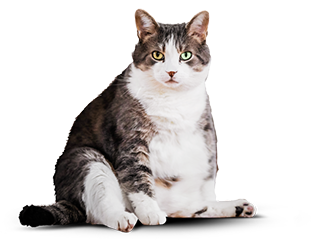
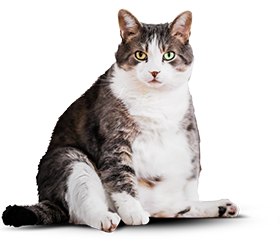
Завершает верстку элементов index mobile

diff --git a/source/index.html b/source/index.html
@@ -122,10 +122,14 @@
         </div>
         <div class="example__half-width">
           <div class="example__slider slider">
-            <img class="slider__image" src="https://via.placeholder.com/150x150" alt="Фото кота 'Было'">
-            <img class="slider__image" src="https://via.placeholder.com/150x150" alt="Фото кота 'Стало'" hidden>
-            <button class="slider__control slider__control--active" type="button">Было</button>
-            <button class="slider__control" type="button">Стало</button>
+            <picture>
+              <img class="slider__image" src="img/before-mobile@1x.png" width="280" height="240" alt="Фото кота 'Было'">
+              <img class="slider__image" src="img/after-mobile@1x.png" width="280" height="248" alt="Фото кота 'Стало'" hidden>
+            </picture>
+            <div class="slider__control-bar">
+              <button class="slider__control slider__control--active" type="button">Было</button>
+              <button class="slider__control" type="button">Стало</button>
+            </div>
           </div>
         </div>
       </div>

diff --git a/source/less/blocks/page-footer.less b/source/less/blocks/page-footer.less
@@ -3,7 +3,7 @@
 }
 
 .page-footer__top {
-  padding: 30px 0 25px;
+  padding: 24px 0 25px;
 
   display: flex;
   justify-content: space-between;
@@ -27,11 +27,31 @@
 }
 
 .page-footer__map {
-  width: 100%;
-  height: 362px;
+  position: relative;
 
-  background: #f2f2f2 url("../img/bg-map-mobile@1x.png") no-repeat 50% 0;
-  background-size: 100% cover;
+  width: 100%;
+  height: 363px;
+
+  background-color: #f2f2f2;
+  background-image: url("../img/bg-map-mobile@1x.png");
+  background-repeat: no-repeat;
+  background-position: 0 96%;
+
+  &::after {
+    content: "";
+
+    position: absolute;
+    top: 113px;
+    left: 102px;
+
+    width: 110px;
+    height: 110px;
+
+    background-image: url("../../img/map-pin.png");
+    background-repeat: no-repeat;
+    background-position: 0 0;
+    transform: scale(0.5);
+  }
 }
 
 .page-footer__bottom {
@@ -40,7 +60,7 @@
 
 .page-footer__logo-link {
   display: block;
-  padding: 39px 0 31px;
+  padding: 40px 0 27px;
 
   text-align: center;
 }
@@ -53,7 +73,7 @@
 }
 
 .page-footer__copyright {
-  padding: 31px 0 35px;
+  padding: 26px 0 30px;
 }
 
 @media (min-width: @tablet-width) {

diff --git a/source/less/blocks/example.less b/source/less/blocks/example.less
@@ -1,6 +1,4 @@
 .example {
-  padding-bottom: 35px;
-
   background-color: #f2f2f2;
 }
 
@@ -74,6 +72,11 @@
   color: #111111;
   text-transform: uppercase;
   text-align: center;
+}
+
+.example__slider {
+  margin-top: 34px;
+  margin-left: -3px;
 }
 
 @media (min-width: @tablet-width) {

diff --git a/source/less/blocks/slider.less b/source/less/blocks/slider.less
@@ -1,4 +1,12 @@
+.slider__control-bar {
+  display: flex;
+  justify-content: space-around;
+  padding: 29px 0 39px;
+}
+
 .slider__control {
   color: #111111;
   text-transform: uppercase;
+  border: none;
+  background-color: transparent;
 }

diff --git a/source/less/blocks/fit-programm-card.less b/source/less/blocks/fit-programm-card.less
@@ -41,7 +41,6 @@
 
     background-image: url("../img/icon-cat-slim.svg");
     background-repeat: no-repeat;
-
   }
 
   &--pro::after {
